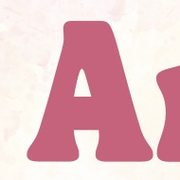
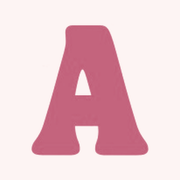
Ikon tab: huruf A bersih di tengah, tanpa potongan huruf n

diff --git a/resources/views/components/layouts/shop.blade.php b/resources/views/components/layouts/shop.blade.php
@@ -30,9 +30,9 @@
     <link rel="preconnect" href="https://fonts.googleapis.com">
     <link rel="preconnect" href="https://fonts.gstatic.com" crossorigin>
     <link rel="stylesheet" href="https://fonts.googleapis.com/css2?family=League+Spartan:wght@400;500;600;700&family=Pacifico&family=Shrikhand&display=swap">
-    {{-- ?v=2 memaksa browser mengambil ulang; sebelumnya favicon.ico kosong dan tersimpan di cache browser --}}
-    <link rel="icon" href="{{ asset('favicon.ico') }}?v=2" sizes="any">
-    <link rel="icon" type="image/png" sizes="32x32" href="{{ asset('favicon-32.png') }}?v=2">
+    {{-- Nomor versi memaksa browser mengambil ulang; sebelumnya favicon.ico kosong dan tersimpan di cache browser --}}
+    <link rel="icon" href="{{ asset('favicon.ico') }}?v=3" sizes="any">
+    <link rel="icon" type="image/png" sizes="32x32" href="{{ asset('favicon-32.png') }}?v=3">
     <link rel="apple-touch-icon" href="{{ asset('apple-touch-icon.png') }}">
     {{ $head ?? '' }}
     @vite(['resources/css/app.css', 'resources/js/app.js'])

diff --git a/app/Providers/Filament/TinjauPanelProvider.php b/app/Providers/Filament/TinjauPanelProvider.php
@@ -29,7 +29,7 @@ class TinjauPanelProvider extends PanelProvider
             ->path('tinjau')
             ->login()
             ->brandName('Angelia Perfume')
-            ->favicon(asset('favicon-32.png').'?v=2')
+            ->favicon(asset('favicon-32.png').'?v=3')
             ->colors([
                 'primary' => Color::hex('#3B2A25'),
                 'gray' => Color::Stone,

diff --git a/app/Providers/Filament/AdminPanelProvider.php b/app/Providers/Filament/AdminPanelProvider.php
@@ -28,7 +28,7 @@ class AdminPanelProvider extends PanelProvider
             ->path('admin')
             ->login()
             ->brandName('Angelia Perfume')
-            ->favicon(asset('favicon-32.png').'?v=2')
+            ->favicon(asset('favicon-32.png').'?v=3')
             ->colors([
                 'primary' => Color::hex('#3B2A25'),
                 'gray' => Color::Stone,
